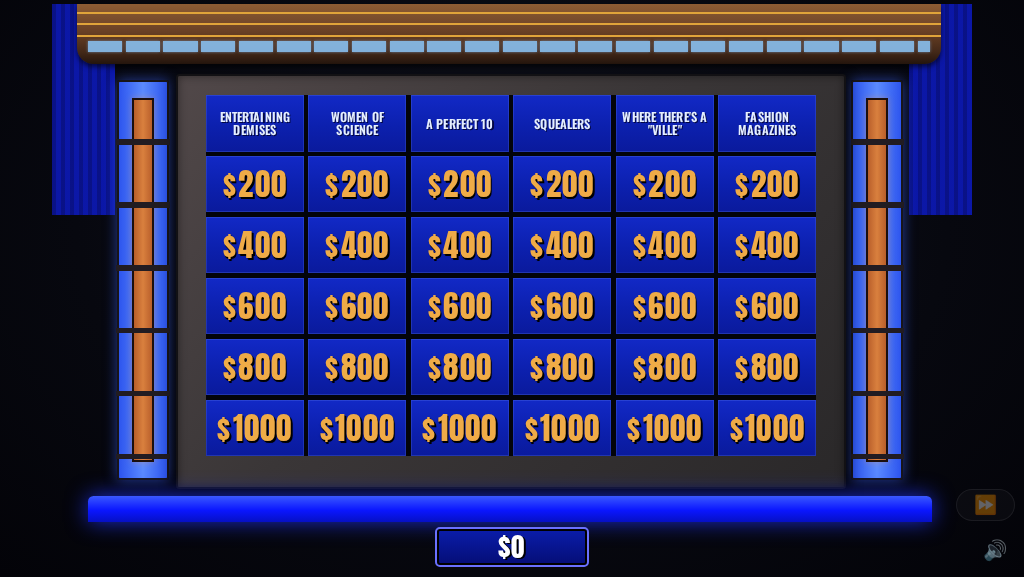
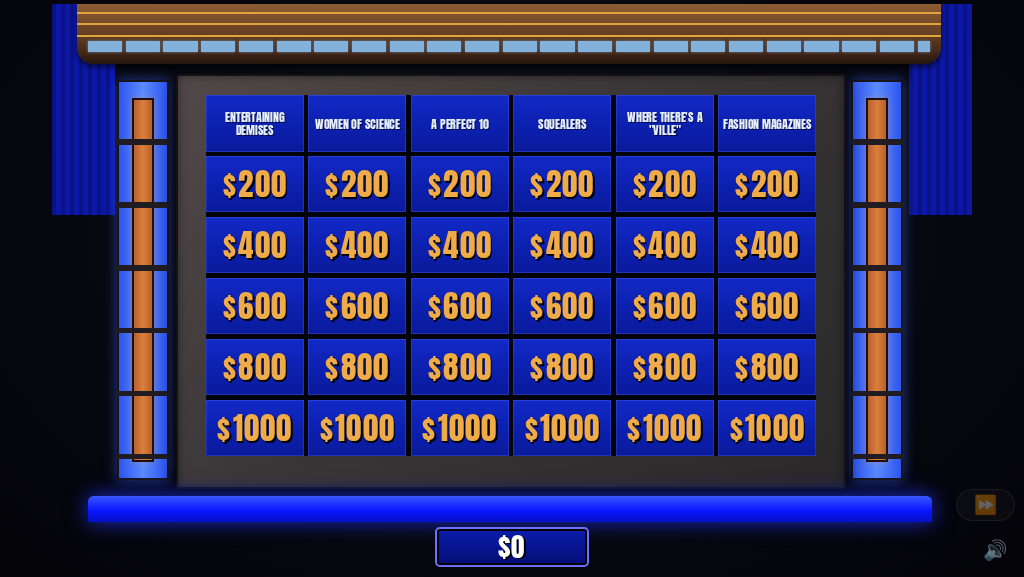
Board categories: never break words (Anton condensed, one size per board fitted to longest word, slimmer phone pillars), add category word-break test

Changed region(s): [[0.2188, 0.1872, 0.8125, 0.2496]]

diff --git a/index.html b/index.html
@@ -37,7 +37,7 @@ body{font-family:'Oswald','Arial Narrow',sans-serif;font-weight:500;user-select:
 .board{flex:none;margin:0;width:96%;display:grid;grid-template-columns:repeat(6,1fr);gap:2px;padding:2px;background:#000}
 .cat,.cell{background:linear-gradient(180deg,#0b12ff,var(--blue) 40%,#0509c4);display:flex;align-items:center;justify-content:center;text-align:center;overflow:hidden;position:relative;box-shadow:inset 0 0 0 .25vmin rgba(255,255,255,.08),inset 0 -1vmin 2vmin rgba(0,0,40,.35)}
 .cat{font-family:Anton,Impact,'Arial Narrow',sans-serif;text-transform:uppercase;color:#fff;font-size:12px;line-height:1.1;padding:.3vmin .4vmin;letter-spacing:0;text-shadow:.15vmin .2vmin 0 #000;text-align:center;min-height:0}
-.cat span{display:block;width:100%;text-align:center;overflow-wrap:break-word;hyphens:auto;-webkit-hyphens:auto}
+.cat span{display:block;width:100%;text-align:center;overflow-wrap:normal;word-break:normal;hyphens:none;-webkit-hyphens:none}
 .cell{font-family:Anton,Impact,sans-serif;color:var(--gold);text-shadow:.3vmin .35vmin 0 #000;letter-spacing:.02em;min-height:0}
 .cell span{font-size:var(--vf,12px);line-height:1;white-space:nowrap}
 .cell.used{background:var(--blue);box-shadow:none;color:transparent;text-shadow:none}
@@ -179,8 +179,8 @@ body.kb .foot{min-height:0}
 .set .glow{background:linear-gradient(180deg,#3a58ff,#0a16ff 55%,#0610c4);border-radius:calc(var(--s)*6) calc(var(--s)*6) 0 0;box-shadow:0 0 calc(var(--s)*24) rgba(30,50,255,.8)}
 .set .board{display:grid;grid-template-columns:repeat(6,1fr);background:#03040a;padding:0;margin:0;width:auto}
 .set .cat,.set .cell{background:linear-gradient(180deg,#1430cc 0%,#0d22b2 55%,#0a1ca4 100%);box-shadow:inset 0 0 0 calc(var(--s)*1) rgba(120,150,255,.22);overflow:hidden;min-height:0;padding:0}
-.set .cat{font-family:Oswald,'Arial Narrow',sans-serif;font-weight:700;text-transform:uppercase;color:#eaf1ff;line-height:1.08;letter-spacing:.01em;text-shadow:calc(var(--s)*1.2) calc(var(--s)*1.4) 0 rgba(0,0,30,.75);padding:calc(var(--s)*3) calc(var(--s)*4)}
-.set .cat span{display:block;width:100%;text-align:center;overflow-wrap:break-word;hyphens:auto;-webkit-hyphens:auto}
+.set .cat{font-family:Oswald,'Arial Narrow',sans-serif;font-weight:700;text-transform:uppercase;color:#eaf1ff;line-height:1.1;letter-spacing:-.02em;text-shadow:calc(var(--s)*1.2) calc(var(--s)*1.4) 0 rgba(0,0,30,.75);padding:calc(var(--s)*3) calc(var(--s)*4)}
+.set .cat span{display:block;width:100%;text-align:center;overflow-wrap:normal;word-break:normal;hyphens:none;-webkit-hyphens:none}
 .set .cell{font-family:Anton,Impact,sans-serif;color:#eaa944;letter-spacing:.03em}
 .set .cell span{font-size:var(--vf,14px);line-height:1;white-space:nowrap;text-shadow:calc(var(--vf,14px)*.045) calc(var(--vf,14px)*.06) 0 #000,calc(var(--vf,14px)*.02) calc(var(--vf,14px)*.03) calc(var(--vf,14px)*.04) rgba(0,0,0,.6);display:inline-flex;align-items:center}
 .set .cell .dl{font-style:normal;font-size:.8em;margin-right:.07em;position:relative;top:-.02em}
@@ -206,6 +206,11 @@ body.kb .foot{min-height:0}
 .card .foot .hint{line-height:1.1}
 .card+#hud,#app:not(.dark) #hud{padding-top:max(14px,2.2vmin)}
 .skip{padding:max(6px,1vmin) 2vmin}
+
+@media (orientation:portrait){.set .cat{padding:calc(var(--s)*2) calc(var(--s)*1.5);letter-spacing:-.02em}}
+.set .cat span{overflow-wrap:normal!important;word-break:normal!important;hyphens:none!important}
+/* categories: condensed Anton, tight tracking, one size per board */
+.set .cat,.pr-cat{font-family:Anton,Impact,'Arial Narrow',sans-serif!important;font-weight:400!important;letter-spacing:-.02em!important}
 
 </style>
 </head>
@@ -293,9 +298,9 @@ const LAYOUT={
  land:{W:1024,H:577,gap:5,hdr:1,
   band:[28,0,962,66],strip:[40,41,938,12],sl:[0,0,70,235],sr:[954,0,70,235],pl:[72,84,58,446],pr:[890,84,58,446],
   bezel:[138,78,746,462],board:[171,101,680,402],glow:[40,548,940,29]},
- port:{W:400,H:336,gap:3.5,hdr:2.1,
-  band:[4,0,392,26],strip:[10,15,380,6],sl:[0,0,0,0],sr:[0,0,0,0],pl:[3,40,23,262],pr:[374,40,23,262],
-  bezel:[29,34,342,274],board:[35,40,330,262],glow:[10,318,380,12]}
+ port:{W:400,H:336,gap:3,hdr:2.1,
+  band:[4,0,392,26],strip:[10,15,380,6],sl:[0,0,0,0],sr:[0,0,0,0],pl:[2,40,12,262],pr:[386,40,12,262],
+  bezel:[14,34,372,274],board:[19,40,362,262],glow:[10,318,380,12]}
 };
 function sizeBoard(){
   const set=document.getElementById('set');if(!set)return;
@@ -322,12 +327,13 @@ function fitAll(){
     const wid=(txt,cls)=>{probe.className=cls;probe.innerHTML=txt;return probe.getBoundingClientRect().width};
     // ONE shared category size (Swiss-style bold condensed, white)
     let maxW=1;
-    SHOW.rounds[G.round].cats.forEach(t=>t.split(/\s+/).forEach(w=>{if(w.length>(innerWidth<innerHeight?8:10))return;maxW=Math.max(maxW,wid(w,'pr-cat'))}));
+    SHOW.rounds[G.round].cats.forEach(t=>t.split(/\s+/).forEach(w=>{maxW=Math.max(maxW,wid(w,'pr-cat'))}));
     const cats=[...bd.querySelectorAll('.cat')],spans=cats.map(c=>c.firstElementChild);
-    let f=Math.max(innerWidth<innerHeight?9.5:8,Math.min(g.hh*.22,(g.cw-8*g.s)*.93/maxW*100));
+    const c0=cats[0],pcs=getComputedStyle(c0),inner=c0.clientWidth-parseFloat(pcs.paddingLeft)-parseFloat(pcs.paddingRight);   // real cell inner width
+    let f=Math.max(8,Math.min(g.hh*.22,inner*.96/maxW*100));
     const apply=()=>spans.forEach(sp=>sp.style.fontSize=f+'px');apply();
-    const availH=g.hh-6*g.s;
-    while(f>7&&spans.some(sp=>sp.offsetHeight>availH)){f-=.4;apply()}
+    const availH=g.hh-4*g.s;
+    while(f>8&&spans.some(sp=>sp.offsetHeight>availH)){f-=.25;apply()}
     // ONE shared value size: widest label must fit with padding
     const vw=wid('<i class="dl">$</i>'+(G.round==='J'?'1000':'2000'),'pr-val');
     const vf=Math.max(8,Math.min(g.ch*.68,(g.cw*.84)/vw*100));

diff --git a/src/style.css b/src/style.css
@@ -16,7 +16,7 @@ body{font-family:'Oswald','Arial Narrow',sans-serif;font-weight:500;user-select:
 .board{flex:none;margin:0;width:96%;display:grid;grid-template-columns:repeat(6,1fr);gap:2px;padding:2px;background:#000}
 .cat,.cell{background:linear-gradient(180deg,#0b12ff,var(--blue) 40%,#0509c4);display:flex;align-items:center;justify-content:center;text-align:center;overflow:hidden;position:relative;box-shadow:inset 0 0 0 .25vmin rgba(255,255,255,.08),inset 0 -1vmin 2vmin rgba(0,0,40,.35)}
 .cat{font-family:Anton,Impact,'Arial Narrow',sans-serif;text-transform:uppercase;color:#fff;font-size:12px;line-height:1.1;padding:.3vmin .4vmin;letter-spacing:0;text-shadow:.15vmin .2vmin 0 #000;text-align:center;min-height:0}
-.cat span{display:block;width:100%;text-align:center;overflow-wrap:break-word;hyphens:auto;-webkit-hyphens:auto}
+.cat span{display:block;width:100%;text-align:center;overflow-wrap:normal;word-break:normal;hyphens:none;-webkit-hyphens:none}
 .cell{font-family:Anton,Impact,sans-serif;color:var(--gold);text-shadow:.3vmin .35vmin 0 #000;letter-spacing:.02em;min-height:0}
 .cell span{font-size:var(--vf,12px);line-height:1;white-space:nowrap}
 .cell.used{background:var(--blue);box-shadow:none;color:transparent;text-shadow:none}
@@ -158,8 +158,8 @@ body.kb .foot{min-height:0}
 .set .glow{background:linear-gradient(180deg,#3a58ff,#0a16ff 55%,#0610c4);border-radius:calc(var(--s)*6) calc(var(--s)*6) 0 0;box-shadow:0 0 calc(var(--s)*24) rgba(30,50,255,.8)}
 .set .board{display:grid;grid-template-columns:repeat(6,1fr);background:#03040a;padding:0;margin:0;width:auto}
 .set .cat,.set .cell{background:linear-gradient(180deg,#1430cc 0%,#0d22b2 55%,#0a1ca4 100%);box-shadow:inset 0 0 0 calc(var(--s)*1) rgba(120,150,255,.22);overflow:hidden;min-height:0;padding:0}
-.set .cat{font-family:Oswald,'Arial Narrow',sans-serif;font-weight:700;text-transform:uppercase;color:#eaf1ff;line-height:1.08;letter-spacing:.01em;text-shadow:calc(var(--s)*1.2) calc(var(--s)*1.4) 0 rgba(0,0,30,.75);padding:calc(var(--s)*3) calc(var(--s)*4)}
-.set .cat span{display:block;width:100%;text-align:center;overflow-wrap:break-word;hyphens:auto;-webkit-hyphens:auto}
+.set .cat{font-family:Oswald,'Arial Narrow',sans-serif;font-weight:700;text-transform:uppercase;color:#eaf1ff;line-height:1.1;letter-spacing:-.02em;text-shadow:calc(var(--s)*1.2) calc(var(--s)*1.4) 0 rgba(0,0,30,.75);padding:calc(var(--s)*3) calc(var(--s)*4)}
+.set .cat span{display:block;width:100%;text-align:center;overflow-wrap:normal;word-break:normal;hyphens:none;-webkit-hyphens:none}
 .set .cell{font-family:Anton,Impact,sans-serif;color:#eaa944;letter-spacing:.03em}
 .set .cell span{font-size:var(--vf,14px);line-height:1;white-space:nowrap;text-shadow:calc(var(--vf,14px)*.045) calc(var(--vf,14px)*.06) 0 #000,calc(var(--vf,14px)*.02) calc(var(--vf,14px)*.03) calc(var(--vf,14px)*.04) rgba(0,0,0,.6);display:inline-flex;align-items:center}
 .set .cell .dl{font-style:normal;font-size:.8em;margin-right:.07em;position:relative;top:-.02em}
@@ -185,3 +185,8 @@ body.kb .foot{min-height:0}
 .card .foot .hint{line-height:1.1}
 .card+#hud,#app:not(.dark) #hud{padding-top:max(14px,2.2vmin)}
 .skip{padding:max(6px,1vmin) 2vmin}
+
+@media (orientation:portrait){.set .cat{padding:calc(var(--s)*2) calc(var(--s)*1.5);letter-spacing:-.02em}}
+.set .cat span{overflow-wrap:normal!important;word-break:normal!important;hyphens:none!important}
+/* categories: condensed Anton, tight tracking, one size per board */
+.set .cat,.pr-cat{font-family:Anton,Impact,'Arial Narrow',sans-serif!important;font-weight:400!important;letter-spacing:-.02em!important}

diff --git a/src/app.js b/src/app.js
@@ -72,9 +72,9 @@ const LAYOUT={
  land:{W:1024,H:577,gap:5,hdr:1,
   band:[28,0,962,66],strip:[40,41,938,12],sl:[0,0,70,235],sr:[954,0,70,235],pl:[72,84,58,446],pr:[890,84,58,446],
   bezel:[138,78,746,462],board:[171,101,680,402],glow:[40,548,940,29]},
- port:{W:400,H:336,gap:3.5,hdr:2.1,
-  band:[4,0,392,26],strip:[10,15,380,6],sl:[0,0,0,0],sr:[0,0,0,0],pl:[3,40,23,262],pr:[374,40,23,262],
-  bezel:[29,34,342,274],board:[35,40,330,262],glow:[10,318,380,12]}
+ port:{W:400,H:336,gap:3,hdr:2.1,
+  band:[4,0,392,26],strip:[10,15,380,6],sl:[0,0,0,0],sr:[0,0,0,0],pl:[2,40,12,262],pr:[386,40,12,262],
+  bezel:[14,34,372,274],board:[19,40,362,262],glow:[10,318,380,12]}
 };
 function sizeBoard(){
   const set=document.getElementById('set');if(!set)return;
@@ -101,12 +101,13 @@ function fitAll(){
     const wid=(txt,cls)=>{probe.className=cls;probe.innerHTML=txt;return probe.getBoundingClientRect().width};
     // ONE shared category size (Swiss-style bold condensed, white)
     let maxW=1;
-    SHOW.rounds[G.round].cats.forEach(t=>t.split(/\s+/).forEach(w=>{if(w.length>(innerWidth<innerHeight?8:10))return;maxW=Math.max(maxW,wid(w,'pr-cat'))}));
+    SHOW.rounds[G.round].cats.forEach(t=>t.split(/\s+/).forEach(w=>{maxW=Math.max(maxW,wid(w,'pr-cat'))}));
     const cats=[...bd.querySelectorAll('.cat')],spans=cats.map(c=>c.firstElementChild);
-    let f=Math.max(innerWidth<innerHeight?9.5:8,Math.min(g.hh*.22,(g.cw-8*g.s)*.93/maxW*100));
+    const c0=cats[0],pcs=getComputedStyle(c0),inner=c0.clientWidth-parseFloat(pcs.paddingLeft)-parseFloat(pcs.paddingRight);   // real cell inner width
+    let f=Math.max(8,Math.min(g.hh*.22,inner*.96/maxW*100));
     const apply=()=>spans.forEach(sp=>sp.style.fontSize=f+'px');apply();
-    const availH=g.hh-6*g.s;
-    while(f>7&&spans.some(sp=>sp.offsetHeight>availH)){f-=.4;apply()}
+    const availH=g.hh-4*g.s;
+    while(f>8&&spans.some(sp=>sp.offsetHeight>availH)){f-=.25;apply()}
     // ONE shared value size: widest label must fit with padding
     const vw=wid('<i class="dl">$</i>'+(G.round==='J'?'1000':'2000'),'pr-val');
     const vf=Math.max(8,Math.min(g.ch*.68,(g.cw*.84)/vw*100));

diff --git a/tools/test_cats.py b/tools/test_cats.py
@@ -1,0 +1,34 @@
+"""Verify no board category word breaks mid-word (phone + desktop, all episodes, both rounds)."""
+from playwright.sync_api import sync_playwright
+import pathlib, sys
+root=pathlib.Path(__file__).resolve().parent.parent
+u=(root/'index.html').as_uri()
+JS="""()=>{const out={bad:[],fonts:new Set(),n:0};
+ document.querySelectorAll('.cat').forEach(c=>{const sp=c.firstElementChild,cs=getComputedStyle(c);
+  const inner=c.clientWidth-parseFloat(cs.paddingLeft)-parseFloat(cs.paddingRight);
+  out.fonts.add(sp.style.fontSize);
+  const tn=sp.firstChild,txt=tn.textContent;let i=0;
+  for(const w of txt.split(/[\\s-]+/)){const st=txt.indexOf(w,i);i=st+w.length;
+   const r=document.createRange();r.setStart(tn,st);r.setEnd(tn,st+w.length);
+   const rects=[...r.getClientRects()];out.n++;
+   if(rects.length!==1||r.getBoundingClientRect().width>inner+.5)out.bad.push([txt,w,rects.length,+r.getBoundingClientRect().width.toFixed(1),+inner.toFixed(1)]);}
+  if(sp.offsetHeight>c.clientHeight+.5)out.bad.push([txt,'HEIGHT overflow',sp.offsetHeight,c.clientHeight]);
+ });out.fonts=[...out.fonts];return out}"""
+errs=[];fail=0
+with sync_playwright() as p:
+    b=p.chromium.launch()
+    for n,vp,m in (('m',{'width':390,'height':844},1),('m375',{'width':375,'height':667},1),('m360',{'width':360,'height':640},1),('d',{'width':1024,'height':577},0)):
+        for ep in ('9434','9402','9369'):
+            pg=b.new_page(viewport=vp,device_scale_factor=2 if m else 1,is_mobile=bool(m),has_touch=bool(m))
+            pg.on('console',lambda x:errs.append(x.text) if x.type=='error' else None); pg.on('pageerror',lambda e:errs.append(str(e)))
+            pg.clock.install(); pg.goto(u+'?ep='+ep); pg.click('#go'); pg.wait_for_selector('#set'); pg.evaluate('document.fonts.ready')
+            for rd in ('J','DJ'):
+                if rd=='DJ': pg.evaluate("__startRound('DJ')")
+                pg.clock.run_for(500); pg.evaluate("dispatchEvent(new Event('resize'))"); pg.clock.run_for(100)
+                r=pg.evaluate(JS); fail+=len(r['bad'])
+                print(n,ep,rd,'words',r['n'],'font',r['fonts'],'BAD' if r['bad'] else 'ok',r['bad'])
+                if ep=='9434' and rd=='J' and m: pg.screenshot(path=str(root/f'screenshots/{n}-board.png'))
+                if ep=='9434' and rd=='DJ' and m: pg.screenshot(path=str(root/f'screenshots/{n}-board-dj.png'))
+                if ep=='9434' and n=='d': pg.screenshot(path=str(root/f'screenshots/d-board{"-dj" if rd=="DJ" else ""}.png'))
+            pg.close()
+print('FAILS',fail,'ERRORS',errs)
